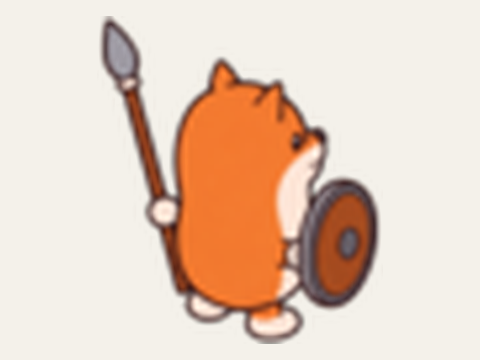
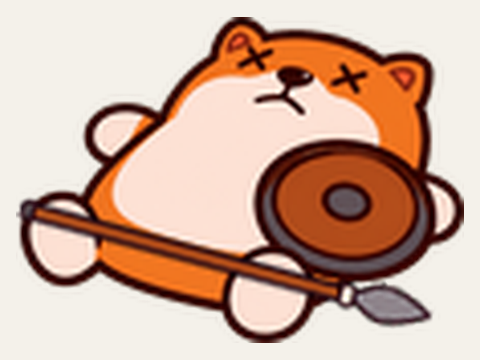
docs(gallery): use the official Red Shiba Amazon death sprite
Replace the 128 px review preview and compare board with godot/assets/units/doge_hunter_death.png (approved, CC-BY-4.0, byte-identical to its manifest hash): capsule body with paws only. Rebuild thumbnails and update attribution and gallery text.

diff --git a/docs/gallery/build_thumbs.py b/docs/gallery/build_thumbs.py
@@ -22,8 +22,7 @@ SOURCES = {
     "crested-goshawk": "examples/art-pilot/characters/crested-goshawk-idle/raw/v01-a001.png",
     "five-red-chow-poet": "examples/poet-cast/store/Tools/artworks/poet_five_red_chow/calibrated/"
                           "poet_five_red_chow_ring_pommel_dao_idle_dr_v03.png",
-    "red-shiba-amazon": "examples/tactics-amazon/red_shiba_amazon_ul_mirrored_preview.png",
-    "red-shiba-amazon-compare": "examples/tactics-amazon/red-shiba-amazon-poet-tilemap-compare.png",
+    "red-shiba-amazon": "examples/tactics-amazon/doge_hunter_death.png",
 }
 
 

diff --git a/docs/gallery.md b/docs/gallery.md
@@ -26,7 +26,7 @@ decision, not an animation. [Full run](../examples/little-orange/README.md).
 | **小橙子 · Little Orange**<br>Front chibi sprite · line art and flat color<br>Prompt summary: a cartoon orange is the whole body with tiny Q-version hands and feet; leaf cowlick, square glasses with one cyan glare, lopsided smirk, laptop in one hand, pointing with the other; no hoodie, text, or logos; flat magenta background for matting. Exact text: `design/design.json`, field `prompt`. [Example](../examples/little-orange/README.md) | **游隼 · Falcon**<br>Idle bird sprite · magenta key<br>Content summary (prompt history not kept): real-bird topology on a compact capsule torso, folded wings against the body, feet on the ground baseline, short tail. [art-pilot](../examples/art-pilot/README.en.md) |
 | ![Crested goshawk](gallery/thumbs/crested-goshawk.png) | ![Five-red Chow Poet](gallery/thumbs/five-red-chow-poet.png) |
 | **凤头鹰 · Crested goshawk**<br>Idle bird sprite · magenta key<br>Content summary (prompt history not kept): crested head, barred chest, folded wings, same capsule body plan as the falcon. [art-pilot](../examples/art-pilot/README.en.md) | **五红柴诗人 · Five-red Chow Poet**<br>Isometric idle sprite, facing down-right · Tactics<br>Content summary: a red chow-chow poet holding a ring-pommel dao; the pose was chosen from stick-figure options first. [poet-cast](../examples/poet-cast/README.md) |
-| ![Red Shiba Amazon](gallery/thumbs/red-shiba-amazon.png) | ![Amazon and Poet](gallery/thumbs/red-shiba-amazon-compare.png) |
-| **亚马逊赤柴 · Red Shiba Amazon**<br>Review preview, facing up-left · Tactics<br>Content summary (prompt history not found): a Q-version red shiba warrior with a spear and a round shield. A 128 px review image, so the thumbnail is soft. [tactics-amazon](../examples/tactics-amazon/ATTRIBUTION.md) | **亚马逊与诗人 · Amazon and Poet on tiles**<br>Review board · Tactics<br>Content summary: the Amazon / Hunter and the equipped Poet side by side on isometric tiles to compare scale and style. [tactics-amazon](../examples/tactics-amazon/ATTRIBUTION.md) |
+| ![Red Shiba Amazon](gallery/thumbs/red-shiba-amazon.png) | |
+| **亚马逊赤柴 · Red Shiba Amazon**<br>Official death sprite · Tactics<br>Content summary (prompt history not found): the red shiba Amazon / Hunter lying down with crossed-out eyes, spear and round shield beside it; a capsule body with paws only and no limbs. [tactics-amazon](../examples/tactics-amazon/ATTRIBUTION.md) | |
 
 Showcase images are not proof of current production approval.

diff --git a/docs/gallery.zh-CN.md b/docs/gallery.zh-CN.md
@@ -23,7 +23,7 @@
 | **小橙子 · Little Orange**<br>正面 Q 版精灵图 · 线稿平涂<br>提示词概括：整个身体就是卡通橙子，只有很小的 Q 版手脚；呆毛似的叶子，方框眼镜带一块青色反光，歪嘴坏笑，一手托笔记本，另一手指向观众；没有帽衫、文字和标志；纯品红背景便于抠图。原文见 `design/design.json` 的 `prompt` 字段。[示例](../examples/little-orange/README.zh-CN.md) | **游隼 · Falcon**<br>待机鸟类精灵图 · 品红底<br>内容概括（当时的提示词未保留）：真鸟拓扑配紧凑胶囊躯干，双翼收拢贴体，两脚落在脚底基线，短尾。[art-pilot](../examples/art-pilot/README.md) |
 | ![凤头鹰](gallery/thumbs/crested-goshawk.png) | ![五红柴诗人](gallery/thumbs/five-red-chow-poet.png) |
 | **凤头鹰 · Crested goshawk**<br>待机鸟类精灵图 · 品红底<br>内容概括（当时的提示词未保留）：带羽冠的头部，横纹胸羽，双翼收拢，与游隼同一套胶囊躯干。[art-pilot](../examples/art-pilot/README.md) | **五红柴诗人 · Five-red Chow Poet**<br>等距待机精灵图，朝右下 · Tactics<br>内容概括：手持环首刀的红色松狮犬诗人；姿势先用火柴人方案比选再定。[poet-cast](../examples/poet-cast/README.md) |
-| ![亚马逊赤柴](gallery/thumbs/red-shiba-amazon.png) | ![亚马逊与诗人](gallery/thumbs/red-shiba-amazon-compare.png) |
-| **亚马逊赤柴 · Red Shiba Amazon**<br>审核预览，朝左上 · Tactics<br>内容概括（没有找到提示词历史）：Q 版红柴犬战士，持长矛和圆盾。原图只有 128 像素，缩略图会偏糊。[tactics-amazon](../examples/tactics-amazon/ATTRIBUTION.md) | **亚马逊与诗人 · Amazon and Poet on tiles**<br>审核对比板 · Tactics<br>内容概括：亚马逊/猎手与装备齐全的诗人并排站在等距地块上，用来比较比例和画风。[tactics-amazon](../examples/tactics-amazon/ATTRIBUTION.md) |
+| ![亚马逊赤柴](gallery/thumbs/red-shiba-amazon.png) | |
+| **亚马逊赤柴 · Red Shiba Amazon**<br>正式版死亡精灵图 · Tactics<br>内容概括（没有找到提示词历史）：红柴犬亚马逊/猎手倒地，眼睛画成叉，长矛和圆盾落在身旁；胶囊身体，只有脚爪，没有四肢。[tactics-amazon](../examples/tactics-amazon/ATTRIBUTION.md) | |
 
 展示图不代表当前的生产批准。

diff --git a/examples/tactics-amazon/ATTRIBUTION.md b/examples/tactics-amazon/ATTRIBUTION.md
@@ -1,24 +1,19 @@
 # Red Shiba Amazon sample attribution
 
-Both PNG files listed in `assets.json` are copied byte-for-byte, without
-modification, from the [Tactics](https://github.com/cty41/tactics) repository at
-source commit `00b59f5ebca4ec6d2b7c6cca0690a57777c829c1`. The manifest records
-the source path and SHA-256 of every file; both are registered as `approved`,
-CC-BY-4.0, rights holder cty41 in the source's
-`Tools/public-release/asset-provenance.json`.
+`doge_hunter_death.png` is copied byte-for-byte, without modification, from the
+[Tactics](https://github.com/cty41/tactics) repository path
+`godot/assets/units/doge_hunter_death.png` at source commit
+`00b59f5ebca4ec6d2b7c6cca0690a57777c829c1`. `assets.json` records the source
+path and SHA-256; the source's `Tools/public-release/asset-provenance.json`
+registers the file as `approved`, CC-BY-4.0, rights holder cty41.
 
 - Creator and rights holder: **cty41**
 - License: **CC BY 4.0**, text at [`../../LICENSES/CC-BY-4.0.txt`](../../LICENSES/CC-BY-4.0.txt)
 - Modifications: none
 
-| File | What it is |
-|---|---|
-| `red_shiba_amazon_ul_mirrored_preview.png` | 128x128 review preview of the Red Shiba Amazon facing up-left (mirrored) |
-| `red-shiba-amazon-poet-tilemap-compare.png` | Review board comparing the Amazon / Hunter with the Five-red Chow Poet on tiles |
-
-These are review and comparison images (provenance
-`project-owned-supporting-derived`), not final character key art. The historical
-generation prompts and receipts were not kept, so this sample makes no claim
-about how the images were generated and is not a MaLiang production lineage. The
-source project describes its artwork as AI-assisted development art; see its
-`ASSET_LICENSE.md`.
+It is the official 256x256 death sprite of the Amazon / Hunter unit (the Red
+Shiba Amazon): a capsule body with paws only and no limbs, drawn for an isometric
+view. The historical generation prompts and receipts were not kept, so this
+sample makes no claim about how the image was generated and is not a MaLiang
+production lineage. The source project describes its artwork as AI-assisted
+development art; see its `ASSET_LICENSE.md`.
